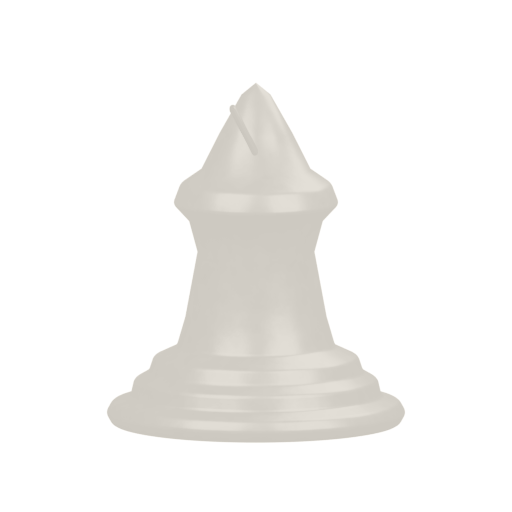
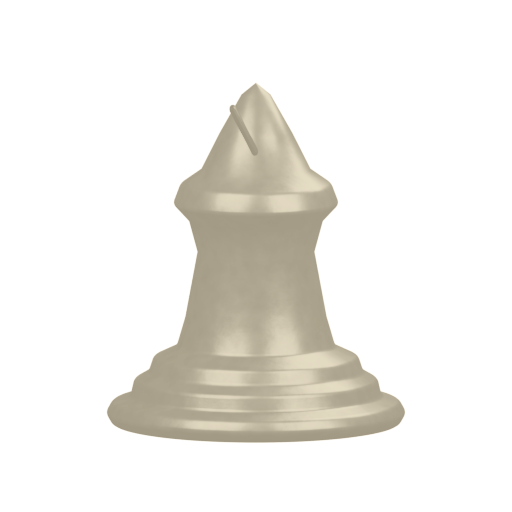
Revierte el marron del tablero y le da mas alma a las piezas blancas
El usuario prefiere el marron original del tablero (--bd: #5C3A1E) al
'Teja Espanola' que se probo -- revertido en Ajedrez y Damas.

Las piezas blancas planas (100% silueta + 18% de sombra) se veian
'sin alma' -- correctas en cuanto a mate/sin brillo, pero demasiado
uniformes. Regeneradas con mas sombreado real (40% en vez de 18%) y
un tono marfil mas calido (#F0E2C0 + un toque de sepia), asi
conservan volumen y caracter sin volver a tener el reflejo metalico
original.

Changed region(s): [[0.1875, 0.1562, 0.8125, 0.875]]

diff --git a/public/game.html b/public/game.html
@@ -36,7 +36,7 @@
       --dim:   rgba(233,228,218,0.45);
       --ghost: rgba(233,228,218,0.14);
       --bl:    #C9B79C; /* Piedra Coralina */
-      --bd:    #8B4A3A; /* Teja Espanola */
+      --bd:    #5C3A1E; /* marron original -- Teja Espanola no gusto */
       --iron:  #2A2D31; /* Hierro Forjado */
       --sand:  #BB9A6A; /* Arena Antigua */
     }

diff --git a/public/damas.html b/public/damas.html
@@ -28,7 +28,7 @@
          Teja Espanola -- para que ambos juegos se sientan de la misma
          familia visual. */
       --bl: #C9B79C;
-      --bd: #8B4A3A;
+      --bd: #5C3A1E;
 
       /* Color solido propio de Damas, distinto del dorado del Ajedrez,
          para que sus botones no dependan de texto atenuado sobre fondo
